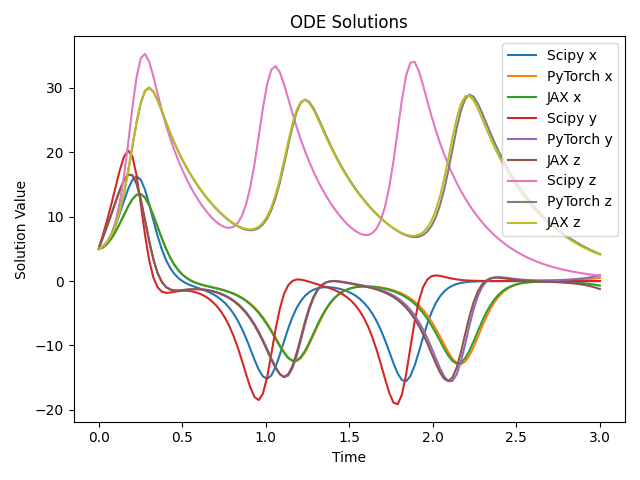
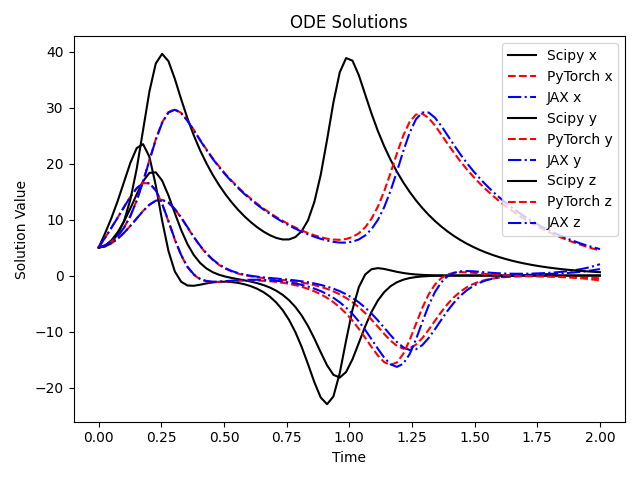
More plots

diff --git a/main_diffopt.py b/main_diffopt.py
@@ -12,6 +12,7 @@ from solver import solve_with_scipy, solve_with_pytorch, solve_with_jax
 from optimizers import optimize_with_scipy, optimize_with_pytorch, optimize_with_jax
 
 labels = ["Scipy", "PyTorch", "JAX"]
+label_styles = [['k-','k*'], ['r--','rx'], ['b-.','b+']]
 
 # Main function
 def main(results_path='results'):
@@ -34,15 +35,15 @@ def main(results_path='results'):
     # Plot initial figures
     plt.figure()
     t = np.linspace(tmin, tmax, nt)
-    plt.plot(t, scipy_initial[:, 0], label='Scipy x')
-    plt.plot(t, torch_initial[:, 0], label='PyTorch x')
-    plt.plot(t, jax_initial[:, 0], label='JAX x')
-    plt.plot(t, scipy_initial[:, 1], label='Scipy y')
-    plt.plot(t, torch_initial[:, 1], label='PyTorch y')
-    plt.plot(t, jax_initial[:, 1], label='JAX z')
-    plt.plot(t, scipy_initial[:, 2], label='Scipy z')
-    plt.plot(t, torch_initial[:, 2], label='PyTorch z')
-    plt.plot(t, jax_initial[:, 2], label='JAX z')
+    plt.plot(t, scipy_initial[:, 0], label_styles[0][0], label=f'{labels[0]} x')
+    plt.plot(t, torch_initial[:, 0], label_styles[1][0], label=f'{labels[1]} x')
+    plt.plot(t, jax_initial[:, 0], label_styles[2][0], label=f'{labels[2]} x')
+    plt.plot(t, scipy_initial[:, 1], label_styles[0][0], label=f'{labels[0]} y')
+    plt.plot(t, torch_initial[:, 1], label_styles[1][0], label=f'{labels[1]} y')
+    plt.plot(t, jax_initial[:, 1], label_styles[2][0], label=f'{labels[2]} y')
+    plt.plot(t, scipy_initial[:, 2], label_styles[0][0], label=f'{labels[0]} z')
+    plt.plot(t, torch_initial[:, 2], label_styles[1][0], label=f'{labels[1]} z')
+    plt.plot(t, jax_initial[:, 2], label_styles[2][0], label=f'{labels[2]} z')
     plt.xlabel('Time')
     plt.ylabel('Solution Value')
     plt.title('ODE Solutions')
@@ -52,9 +53,9 @@ def main(results_path='results'):
 
     fig = plt.figure()
     ax = fig.add_subplot(111, projection='3d')
-    ax.plot(scipy_initial[:, 0], scipy_initial[:, 1], scipy_initial[:, 2], label='Scipy')
-    ax.plot(torch_initial[:, 0], torch_initial[:, 1], torch_initial[:, 2], label='PyTorch')
-    ax.plot(jax_initial[:, 0], jax_initial[:, 1], jax_initial[:, 2], label='JAX')
+    ax.plot(scipy_initial[:, 0], scipy_initial[:, 1], scipy_initial[:, 2], label=f'{labels[0]}')
+    ax.plot(torch_initial[:, 0], torch_initial[:, 1], torch_initial[:, 2], label=f'{labels[1]}')
+    ax.plot(jax_initial[:, 0], jax_initial[:, 1], jax_initial[:, 2], label=f'{labels[2]}')
     ax.set_xlabel('x1')
     ax.set_ylabel('x2')
     ax.set_zlabel('x3')
@@ -66,15 +67,15 @@ def main(results_path='results'):
     # Plot solutions
     plt.figure()
     t = np.linspace(tmin, tmax, nt)
-    plt.plot(t, scipy_solution[:, 0], label='Scipy x')
-    plt.plot(t, torch_solution[:, 0], label='PyTorch x')
-    plt.plot(t, jax_solution[:, 0], label='JAX x')
-    plt.plot(t, scipy_solution[:, 1], label='Scipy y')
-    plt.plot(t, torch_solution[:, 1], label='PyTorch y')
-    plt.plot(t, jax_solution[:, 1], label='JAX z')
-    plt.plot(t, scipy_solution[:, 2], label='Scipy z')
-    plt.plot(t, torch_solution[:, 2], label='PyTorch z')
-    plt.plot(t, jax_solution[:, 2], label='JAX z')
+    plt.plot(t, scipy_solution[:, 0], label_styles[0][0], label=f'{labels[0]} x')
+    plt.plot(t, torch_solution[:, 0], label_styles[1][0], label=f'{labels[1]} x')
+    plt.plot(t, jax_solution[:, 0], label_styles[2][0], label=f'{labels[2]} x')
+    plt.plot(t, scipy_solution[:, 1], label_styles[0][0], label=f'{labels[0]} y')
+    plt.plot(t, torch_solution[:, 1], label_styles[1][0], label=f'{labels[1]} y')
+    plt.plot(t, jax_solution[:, 1], label_styles[2][0], label=f'{labels[2]} y')
+    plt.plot(t, scipy_solution[:, 2], label_styles[0][0], label=f'{labels[0]} z')
+    plt.plot(t, torch_solution[:, 2], label_styles[1][0], label=f'{labels[1]} z')
+    plt.plot(t, jax_solution[:, 2], label_styles[2][0], label=f'{labels[2]} z')
     plt.xlabel('Time')
     plt.ylabel('Solution Value')
     plt.title('ODE Solutions')
@@ -84,9 +85,9 @@ def main(results_path='results'):
 
     fig = plt.figure()
     ax = fig.add_subplot(111, projection='3d')
-    ax.plot(scipy_solution[:, 0], scipy_solution[:, 1], scipy_solution[:, 2], label='Scipy')
-    ax.plot(torch_solution[:, 0], torch_solution[:, 1], torch_solution[:, 2], label='PyTorch')
-    ax.plot(jax_solution[:, 0], jax_solution[:, 1], jax_solution[:, 2], label='JAX')
+    ax.plot(scipy_solution[:, 0], scipy_solution[:, 1], scipy_solution[:, 2], label_styles[0][0], label=f'{labels[0]}')
+    ax.plot(torch_solution[:, 0], torch_solution[:, 1], torch_solution[:, 2], label_styles[1][0], label=f'{labels[1]}')
+    ax.plot(jax_solution[:, 0], jax_solution[:, 1], jax_solution[:, 2], label_styles[2][0], label=f'{labels[2]}')
     ax.set_xlabel('x1')
     ax.set_ylabel('x2')
     ax.set_zlabel('x3')

diff --git a/params_and_model.py b/params_and_model.py
@@ -4,7 +4,7 @@ import torch
 initial_conditions = [5., 5., 5.]
 a_initial = [10., 20., 8./3.]  # sigma, rho, beta
 tmin = 0
-tmax = 3
+tmax = 2
 nt = int(40 * (tmax - tmin))
 delta_jacobian_scipy = 1e-5
 tol_optimization = 1e-2
